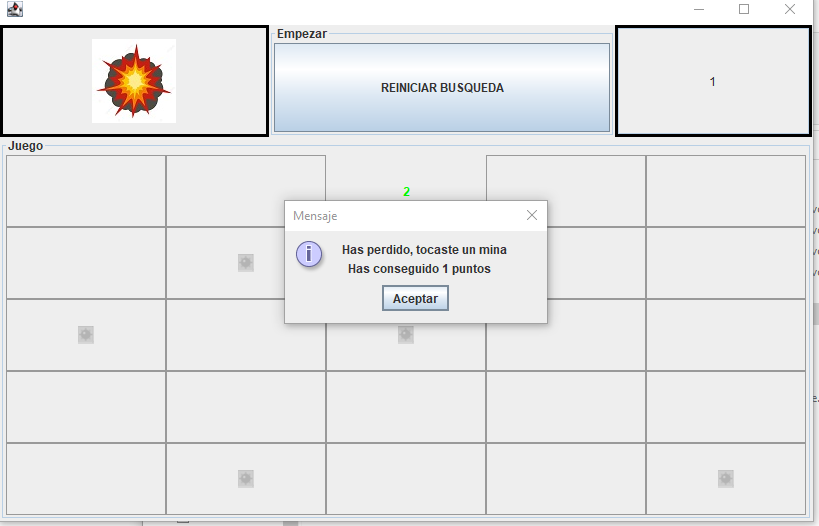
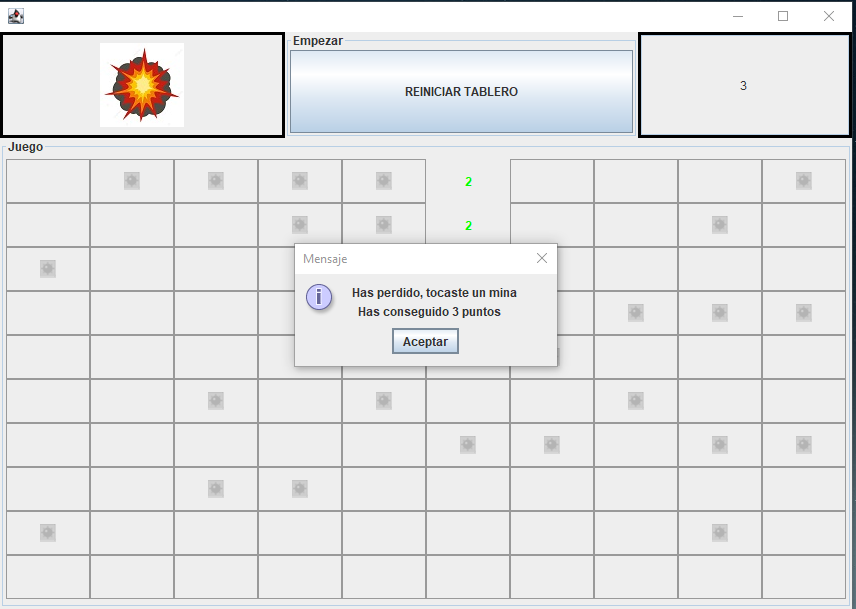
Detalles

Changed region(s): [[0.0, 0.0, 1.0, 1.0], [0.4579, 0.1217, 0.6105, 0.1825], [0.8547, 0.1217, 0.8852, 0.1521]]

diff --git a/src/VentanaPrincipal.java b/src/VentanaPrincipal.java
@@ -78,7 +78,7 @@ public class VentanaPrincipal {
 		panelJuego = new JPanel();
 		panelJuego.setLayout(new GridLayout(juego.LADO_TABLERO, juego.LADO_TABLERO));
 
-		botonEmpezar = new JButton("REINICIAR BUSQUEDA");
+		botonEmpezar = new JButton("REINICIAR TABLERO");
 		pantallaPuntuacion = new JTextField("0");
 		pantallaPuntuacion.setEditable(false);
 		pantallaPuntuacion.setHorizontalAlignment(SwingConstants.CENTER);
@@ -297,7 +297,7 @@ public class VentanaPrincipal {
 	 *       juego.
 	 */
 	public void mostrarFinJuego(boolean porExplosion) {
-		
+
 		String info = "";
 		for (int i = 0; i < juego.LADO_TABLERO; i++) {
 			for (int j = 0; j < juego.LADO_TABLERO; j++) {
@@ -306,13 +306,13 @@ public class VentanaPrincipal {
 		}
 		if (porExplosion) {
 			ImageIcon im = new ImageIcon("explosion.jpg");
-		jlimagen.setIcon(im);
+			jlimagen.setIcon(im);
 			info = "Has perdido, tocaste un mina\n  Has conseguido " + pantallaPuntuacion.getText() + " puntos";
 			JOptionPane.showMessageDialog(ventana, info);
 
 		} else {
 			ImageIcon im = new ImageIcon("bien.jpg");
-		jlimagen.setIcon(im);
+			jlimagen.setIcon(im);
 			info = "¡¡Muy bien!! has conseguido encontrar todas las minas";
 			JOptionPane.showMessageDialog(ventana, info);
 		}

diff --git a/src/ControlJuego.java b/src/ControlJuego.java
@@ -148,12 +148,12 @@ public class ControlJuego {
 	 * Método que pinta por pantalla toda la información del tablero, se utiliza
 	 * para depurar
 	 */
-/* 	
-	  public void depurarTablero(){
-	  System.out.println("---------TABLERO--------------"); for (int i = 0; i <
-	  tablero.length; i++) { for (int j = 0; j < tablero[i].length; j++) {
-	  System.out.print(tablero[i][j]+"\t"); } System.out.println(); }
-	  System.out.println("\nPuntuación: "+puntuacion); }
+	/*
+	 * public void depurarTablero(){
+	 * System.out.println("---------TABLERO--------------"); for (int i = 0; i <
+	 * tablero.length; i++) { for (int j = 0; j < tablero[i].length; j++) {
+	 * System.out.print(tablero[i][j]+"\t"); } System.out.println(); }
+	 * System.out.println("\nPuntuación: "+puntuacion); }
 	 */
 
 	/**

diff --git a/src/SelectorDificultad.java b/src/SelectorDificultad.java
@@ -41,6 +41,7 @@ public class SelectorDificultad extends JDialog {
 
     }
 
+    // Añade los elementos a la pestaña
     private void anadirElementos() {
 
         this.setLayout(new GridBagLayout());
@@ -109,6 +110,7 @@ public class SelectorDificultad extends JDialog {
                 }
 
                 EventQueue.invokeLater(new Runnable() {
+                    // Inicia la partida nueva... con la dificultad que hemos puesto
                     public void run() {
                         try {
                             VentanaPrincipal vp = new VentanaPrincipal(LADO);

diff --git a/src/Principal.java b/src/Principal.java
@@ -9,7 +9,7 @@ import java.awt.EventQueue;
 public class Principal {
 
 	/**
-	 * Método main
+	 * Método main, es el método principal y su función es llamar al JDialog
 	 * 
 	 * @param args : Cadenas de parámetros del main
 	 */
